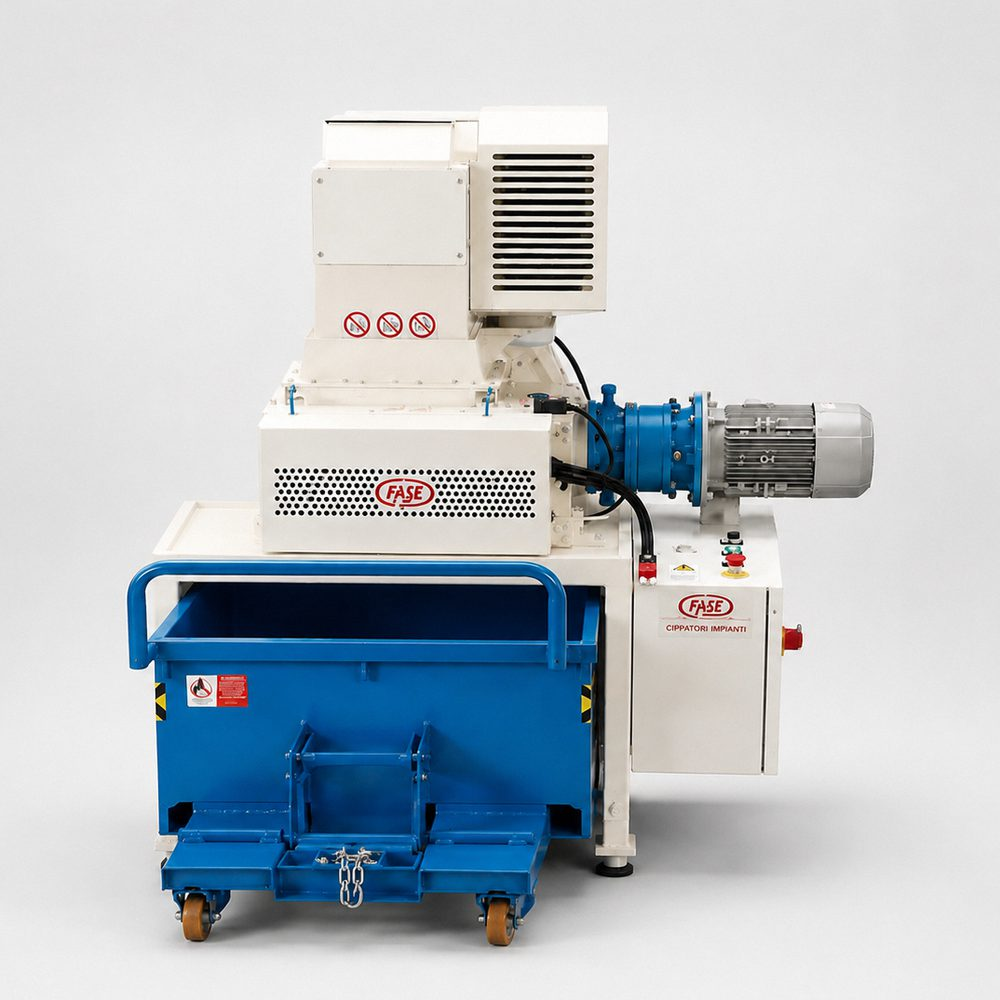
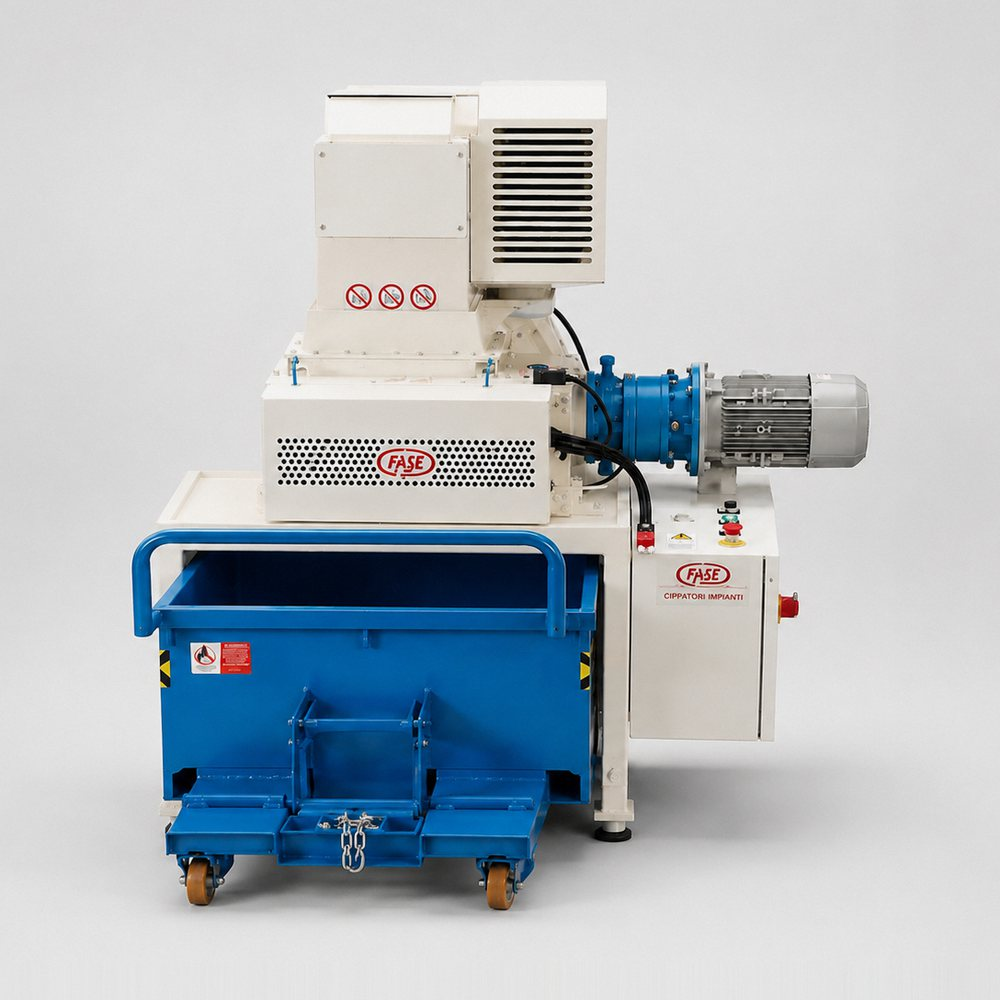
La copertina del KOMBI rientra nella famiglia, otto impianti nella fascia
Nell'elenco "Le macchine" le copertine sono scatti di catalogo: fondo chiaro
uniforme, macchina centrata, aria su tutti e quattro i lati. Quella del KOMBI
usciva dalla regola — la macchina toccava i due lati — e accanto alle altre
due schede degli impianti si vedeva. Ora viene dallo stesso scatto in posa di
kombi-01, con la macchina dentro all'84% del quadrato, il fondo portato al
livello delle altre e niente vignettatura. Con lo stesso conto e' rifatta
tr1-copertina, l'altra copertina servita da qui.

Le altre cinque arrivano dal repo dei contenuti e stanno gia' dentro la
regola: non le ho toccate, perche' rifarle vorrebbe dire scegliere un'altra
macchina a rappresentare la serie, che e' una decisione di contenuto.
La scheda LM 660 AG resta col fondo nero: nessuna foto verificata.

Nella fascia della pagina impianti le otto fotografie indicate dal
committente, con continuo-01 in apertura: sei del ciclo continuo — tre gia'
lavorate, tre nuove dalla stessa cartella — e due del KOMBI. Il paniere
estraibile in questa fascia non compare piu': le sue fotografie restano sulla
scheda della serie.

Changed region(s): [[0.124, 0.093, 0.899, 0.961], [0.341, 0.279, 0.434, 0.341], [0.341, 0.217, 0.372, 0.248]]

diff --git a/impianti.html b/impianti.html
@@ -6,7 +6,7 @@
 <meta name="format-detection" content="telephone=no,address=no,email=no,date=no">
 <title>Impianti | Fase Mechanical Engineering</title>
 <meta name="description" content="Linee complete che collegano macchina utensile, trattamento dello sfrido e stoccaggio, dimensionate sul reparto.">
-<link rel="stylesheet" href="assets/site.css?v=20260827e">
+<link rel="stylesheet" href="assets/site.css?v=20260827f">
 </head>
 <body>
 <nav class="menu">
@@ -59,15 +59,16 @@
 </header><section class="media-band">
   <!-- Carosello: una riga per fotografia, la prima porta anche "attiva"
        perche' resti visibile se lo script non parte. Per cambiare le
-       immagini basta agire su queste righe. Le tre famiglie alternate: ciclo continuo, KOMBI, paniere estraibile. -->
+       immagini basta agire su queste righe. -->
   <div class="reveal carosello" data-carosello="2000">
     <img class="attiva" alt="impianto Fase a ciclo continuo: tramoggia di carico, elevatore verso la centrifuga, cassone di raccolta e cisterna del lubrorefrigerante" src="assets/img/impianti/continuo-01.jpg">
-    <img loading="lazy" alt="impianto Fase KOMBI completo: tramoggia di carico, elevatore a tapparelle, centrifuga e quadro elettrico" src="assets/img/kombi/kombi-01.jpg">
-    <img loading="lazy" alt="impianto Fase a paniere estraibile: portale con pinza sopra le stazioni di centrifugazione, dietro la recinzione di protezione" src="assets/img/impianti/paniere-01.jpg">
+    <img loading="lazy" alt="impianto a ciclo continuo in reparto, dentro la recinzione di protezione, con trituratore e centrifuga in linea" src="assets/img/impianti/continuo-05.jpg">
+    <img loading="lazy" alt="impianto a ciclo continuo con centrifuga su cavalletto, cisterna del lubrorefrigerante e centralina idraulica" src="assets/img/impianti/continuo-07.jpg">
     <img loading="lazy" alt="impianto a ciclo continuo con silo di stoccaggio, trituratore, centrifuga e cassoni di raccolta su ruote" src="assets/img/impianti/continuo-04.jpg">
-    <img loading="lazy" alt="impianto Fase KOMBI con la tramoggia di accumulo in primo piano e il quadro di comando a fianco" src="assets/img/kombi/kombi-03.jpg">
-    <img loading="lazy" alt="linea a paniere estraibile: portale su rotaia, panieri in acciaio inox, bacini di contenimento e ribalta cassoni" src="assets/img/impianti/paniere-02.jpg">
-    <img loading="lazy" alt="linea a ciclo continuo con silo, trituratore, centrifuga e vasca di recupero del lubrorefrigerante" src="assets/img/impianti/continuo-06.jpg">
+    <img loading="lazy" alt="impianto a ciclo continuo in reparto: quadro di comando, tramoggia con spintore idraulico e centrifuga dietro la recinzione" src="assets/img/impianti/continuo-08.jpg">
+    <img loading="lazy" alt="impianto a ciclo continuo con nastro di carico, centrifuga e compressore dentro la recinzione di protezione" src="assets/img/impianti/continuo-09.jpg">
+    <img loading="lazy" alt="gruppo di scarico di un impianto Fase KOMBI, con il fusto della centrifuga in vista" src="assets/img/kombi/kombi-06.jpg">
+    <img loading="lazy" alt="impianto Fase KOMBI completo: tramoggia di carico, elevatore a tapparelle, centrifuga e quadro elettrico" src="assets/img/kombi/kombi-01.jpg">
   </div>
 </section>
 <section class="expertises-overview">
@@ -94,7 +95,7 @@
         <div class="dots-icon-button arrow-link"><svg viewBox="0 0 12 12" fill="none" xmlns="http://www.w3.org/2000/svg"><circle cx="9.89859" cy="1.41437" r="1" fill="currentColor"/><circle cx="5.6564" cy="1.41437" r="1" fill="currentColor"/><circle cx="1.41422" cy="1.41437" r="1" fill="currentColor"/><circle cx="7.7775" cy="3.53546" r="1" fill="currentColor"/><circle cx="5.6564" cy="5.65655" r="1" fill="currentColor"/><circle cx="9.89859" cy="5.65655" r="1" fill="currentColor"/><circle cx="9.89859" cy="9.89874" r="1" fill="currentColor"/><circle cx="3.53531" cy="7.77765" r="1" fill="currentColor"/><circle cx="1.41422" cy="9.89874" r="1" fill="currentColor"/></svg></div>
       </a>
       <a href="prodotti/kombi.html" class="expertise-card">
-        <div class="image-wrapper"><img loading="lazy" alt="impianto Fase KOMBI su base pallettizzata, con elevatore a tapparelle, centrifuga e quadro elettrico" src="assets/img/kombi/kombi-scheda.jpg"></div>
+        <div class="image-wrapper"><img loading="lazy" alt="impianto Fase KOMBI su base pallettizzata, con elevatore a tapparelle, centrifuga e quadro elettrico" src="assets/img/kombi/kombi-copertina.jpg"></div>
         <div class="content">
           <div class="name">Impianto compatto di disoleatura<span>Serie KOMBI</span></div>
           <div class="copy">Fino a 400 kg/h su base pallettizzata</div>
@@ -147,7 +148,7 @@
     </div>
   </div>
 </footer>
-<script src="assets/i18n.js?v=20260827e"></script>
-<script src="assets/site.js?v=20260827e"></script>
+<script src="assets/i18n.js?v=20260827f"></script>
+<script src="assets/site.js?v=20260827f"></script>
 </body>
 </html>

diff --git a/prodotti/impianti-trattamento-trucioli-ciclo-continuo.html b/prodotti/impianti-trattamento-trucioli-ciclo-continuo.html
@@ -6,7 +6,7 @@
 <meta name="format-detection" content="telephone=no,address=no,email=no,date=no">
 <title>Impianti di trattamento trucioli metallici a ciclo continuo | Fase Mechanical Engineering</title>
 <meta name="description" content="Alimentazione continua, dati secondo Industria 4.0">
-<link rel="stylesheet" href="../assets/site.css?v=20260827e">
+<link rel="stylesheet" href="../assets/site.css?v=20260827f">
 </head>
 <body>
 <nav class="menu">
@@ -100,7 +100,7 @@
         <div class="dots-icon-button arrow-link"><svg viewBox="0 0 12 12" fill="none" xmlns="http://www.w3.org/2000/svg"><circle cx="9.89859" cy="1.41437" r="1" fill="currentColor"/><circle cx="5.6564" cy="1.41437" r="1" fill="currentColor"/><circle cx="1.41422" cy="1.41437" r="1" fill="currentColor"/><circle cx="7.7775" cy="3.53546" r="1" fill="currentColor"/><circle cx="5.6564" cy="5.65655" r="1" fill="currentColor"/><circle cx="9.89859" cy="5.65655" r="1" fill="currentColor"/><circle cx="9.89859" cy="9.89874" r="1" fill="currentColor"/><circle cx="3.53531" cy="7.77765" r="1" fill="currentColor"/><circle cx="1.41422" cy="9.89874" r="1" fill="currentColor"/></svg></div>
       </a>
       <a href="kombi.html" class="expertise-card">
-        <div class="image-wrapper"><img loading="lazy" alt="impianto Fase KOMBI su base pallettizzata, con elevatore a tapparelle, centrifuga e quadro elettrico" src="../assets/img/kombi/kombi-scheda.jpg"></div>
+        <div class="image-wrapper"><img loading="lazy" alt="impianto Fase KOMBI su base pallettizzata, con elevatore a tapparelle, centrifuga e quadro elettrico" src="../assets/img/kombi/kombi-copertina.jpg"></div>
         <div class="content">
           <div class="name">Impianto compatto di disoleatura<span>Serie KOMBI</span></div>
           <div class="copy">Fino a 400 kg/h su base pallettizzata</div>
@@ -153,7 +153,7 @@
     </div>
   </div>
 </footer>
-<script src="../assets/i18n.js?v=20260827e"></script>
-<script src="../assets/site.js?v=20260827e"></script>
+<script src="../assets/i18n.js?v=20260827f"></script>
+<script src="../assets/site.js?v=20260827f"></script>
 </body>
 </html>

diff --git a/prodotti/impianti-trattamento-trucioli-paniere-estraibile.html b/prodotti/impianti-trattamento-trucioli-paniere-estraibile.html
@@ -6,7 +6,7 @@
 <meta name="format-detection" content="telephone=no,address=no,email=no,date=no">
 <title>Impianti di trattamento trucioli metallici a paniere estraibile | Fase Mechanical Engineering</title>
 <meta name="description" content="Più materiali trattati senza contaminazione">
-<link rel="stylesheet" href="../assets/site.css?v=20260827e">
+<link rel="stylesheet" href="../assets/site.css?v=20260827f">
 </head>
 <body>
 <nav class="menu">
@@ -98,7 +98,7 @@
         <div class="dots-icon-button arrow-link"><svg viewBox="0 0 12 12" fill="none" xmlns="http://www.w3.org/2000/svg"><circle cx="9.89859" cy="1.41437" r="1" fill="currentColor"/><circle cx="5.6564" cy="1.41437" r="1" fill="currentColor"/><circle cx="1.41422" cy="1.41437" r="1" fill="currentColor"/><circle cx="7.7775" cy="3.53546" r="1" fill="currentColor"/><circle cx="5.6564" cy="5.65655" r="1" fill="currentColor"/><circle cx="9.89859" cy="5.65655" r="1" fill="currentColor"/><circle cx="9.89859" cy="9.89874" r="1" fill="currentColor"/><circle cx="3.53531" cy="7.77765" r="1" fill="currentColor"/><circle cx="1.41422" cy="9.89874" r="1" fill="currentColor"/></svg></div>
       </a>
       <a href="kombi.html" class="expertise-card">
-        <div class="image-wrapper"><img loading="lazy" alt="impianto Fase KOMBI su base pallettizzata, con elevatore a tapparelle, centrifuga e quadro elettrico" src="../assets/img/kombi/kombi-scheda.jpg"></div>
+        <div class="image-wrapper"><img loading="lazy" alt="impianto Fase KOMBI su base pallettizzata, con elevatore a tapparelle, centrifuga e quadro elettrico" src="../assets/img/kombi/kombi-copertina.jpg"></div>
         <div class="content">
           <div class="name">Impianto compatto di disoleatura<span>Serie KOMBI</span></div>
           <div class="copy">Fino a 400 kg/h su base pallettizzata</div>
@@ -151,7 +151,7 @@
     </div>
   </div>
 </footer>
-<script src="../assets/i18n.js?v=20260827e"></script>
-<script src="../assets/site.js?v=20260827e"></script>
+<script src="../assets/i18n.js?v=20260827f"></script>
+<script src="../assets/site.js?v=20260827f"></script>
 </body>
 </html>

diff --git a/assets/i18n.js b/assets/i18n.js
@@ -535,6 +535,9 @@ var EN = {
 "impianto a ciclo continuo con silo di stoccaggio, trituratore, centrifuga e cassoni di raccolta su ruote":"continuous-cycle system with storage silo, shredder, centrifuge and wheeled collection bins",
 "impianto a ciclo continuo in reparto, dentro la recinzione di protezione, con trituratore e centrifuga in linea":"continuous-cycle system on the shop floor, inside the safety fence, with shredder and centrifuge in line",
 "linea a ciclo continuo con silo, trituratore, centrifuga e vasca di recupero del lubrorefrigerante":"continuous-cycle line with silo, shredder, centrifuge and coolant recovery tank",
+"impianto a ciclo continuo con centrifuga su cavalletto, cisterna del lubrorefrigerante e centralina idraulica":"continuous-cycle system with the centrifuge on a stand, coolant tank and hydraulic power pack",
+"impianto a ciclo continuo in reparto: quadro di comando, tramoggia con spintore idraulico e centrifuga dietro la recinzione":"continuous-cycle system on the shop floor: control panel, hopper with hydraulic ram and centrifuge behind the fence",
+"impianto a ciclo continuo con nastro di carico, centrifuga e compressore dentro la recinzione di protezione":"continuous-cycle system with loading conveyor, centrifuge and compressor inside the safety fence",
 "linea a paniere estraibile: portale su rotaia, panieri in acciaio inox, bacini di contenimento e ribalta cassoni":"removable-basket line: rail-mounted gantry, stainless steel baskets, containment tubs and bin tipper",
 "portale di manipolazione di un impianto a paniere estraibile, con i cilindri della pinza":"handling gantry of a removable-basket system, with the gripper cylinders",
 "pinza del portale che afferra il paniere, vista da sotto":"the gantry gripper closing on the basket, seen from below",

diff --git a/news/test-gratuiti-di-triturazione.html b/news/test-gratuiti-di-triturazione.html
@@ -6,7 +6,7 @@
 <meta name="format-detection" content="telephone=no,address=no,email=no,date=no">
 <title>Test gratuiti di triturazione | Fase Mechanical Engineering</title>
 <meta name="description" content="I trituratori frantumano il truciolo e semplificano centrifugazione e stoccaggio. Mettiamo a disposizione una prova gratuita sullo sfrido del cliente, su appuntamento.">
-<link rel="stylesheet" href="../assets/site.css?v=20260827e">
+<link rel="stylesheet" href="../assets/site.css?v=20260827f">
 </head>
 <body>
 <nav class="menu">
@@ -142,7 +142,7 @@
     </div>
   </div>
 </footer>
-<script src="../assets/i18n.js?v=20260827e"></script>
-<script src="../assets/site.js?v=20260827e"></script>
+<script src="../assets/i18n.js?v=20260827f"></script>
+<script src="../assets/site.js?v=20260827f"></script>
 </body>
 </html>

diff --git a/prodotti/kombi.html b/prodotti/kombi.html
@@ -6,7 +6,7 @@
 <meta name="format-detection" content="telephone=no,address=no,email=no,date=no">
 <title>Impianto compatto di disoleatura serie KOMBI | Fase Mechanical Engineering</title>
 <meta name="description" content="Impianto automatico di disoleatura del truciolo corto, su base pallettizzata. Fino a 400 kg/h, trituratore e vasca dragante a richiesta.">
-<link rel="stylesheet" href="../assets/site.css?v=20260827e">
+<link rel="stylesheet" href="../assets/site.css?v=20260827f">
 </head>
 <body>
 <nav class="menu">
@@ -169,7 +169,7 @@
     </div>
   </div>
 </footer>
-<script src="../assets/i18n.js?v=20260827e"></script>
-<script src="../assets/site.js?v=20260827e"></script>
+<script src="../assets/i18n.js?v=20260827f"></script>
+<script src="../assets/site.js?v=20260827f"></script>
 </body>
 </html>

diff --git a/index.html b/index.html
@@ -6,7 +6,7 @@
 <meta name="format-detection" content="telephone=no,address=no,email=no,date=no">
 <title>Fase Mechanical Engineering | Centrifughe, impianti e trituratori per lo sfrido metallico</title>
 <meta name="description" content="Fase progetta e costruisce centrifughe, impianti di trattamento e trituratori per lo sfrido metallico. Umidità residua sotto il 2%.">
-<link rel="stylesheet" href="assets/site.css?v=20260827e">
+<link rel="stylesheet" href="assets/site.css?v=20260827f">
 </head>
 <body>
 <nav class="menu">
@@ -334,7 +334,7 @@
     </div>
   </div>
 </footer>
-<script src="assets/i18n.js?v=20260827e"></script>
-<script src="assets/site.js?v=20260827e"></script>
+<script src="assets/i18n.js?v=20260827f"></script>
+<script src="assets/site.js?v=20260827f"></script>
 </body>
 </html>

diff --git a/applicazioni.html b/applicazioni.html
@@ -6,7 +6,7 @@
 <meta name="format-detection" content="telephone=no,address=no,email=no,date=no">
 <title>Applicazioni | Fase Mechanical Engineering</title>
 <meta name="description" content="Il truciolo esce dalla macchina utensile carico di lubrorefrigerante, e quanto ne trattiene dipende dalla forma. L’impianto si sceglie dal materiale, non dal listino.">
-<link rel="stylesheet" href="assets/site.css?v=20260827e">
+<link rel="stylesheet" href="assets/site.css?v=20260827f">
 </head>
 <body>
 <nav class="menu">
@@ -136,7 +136,7 @@
     </div>
   </div>
 </footer>
-<script src="assets/i18n.js?v=20260827e"></script>
-<script src="assets/site.js?v=20260827e"></script>
+<script src="assets/i18n.js?v=20260827f"></script>
+<script src="assets/site.js?v=20260827f"></script>
 </body>
 </html>

diff --git a/settori.html b/settori.html
@@ -6,7 +6,7 @@
 <meta name="format-detection" content="telephone=no,address=no,email=no,date=no">
 <title>Settori | Fase Mechanical Engineering</title>
 <meta name="description" content="Cambia il pezzo, cambia il fluido, cambia lo spazio. Non cambia dove interveniamo: a valle della lavorazione, prima che lo sfrido diventi un costo.">
-<link rel="stylesheet" href="assets/site.css?v=20260827e">
+<link rel="stylesheet" href="assets/site.css?v=20260827f">
 </head>
 <body>
 <nav class="menu">
@@ -122,7 +122,7 @@
     </div>
   </div>
 </footer>
-<script src="assets/i18n.js?v=20260827e"></script>
-<script src="assets/site.js?v=20260827e"></script>
+<script src="assets/i18n.js?v=20260827f"></script>
+<script src="assets/site.js?v=20260827f"></script>
 </body>
 </html>

diff --git a/news/fornitore-offresi-2025.html b/news/fornitore-offresi-2025.html
@@ -6,7 +6,7 @@
 <meta name="format-detection" content="telephone=no,address=no,email=no,date=no">
 <title>Fornitore Offresi 2025 | Fase Mechanical Engineering</title>
 <meta name="description" content="Salone internazionale della subfornitura meccanica, a Erba dal 13 al 15 febbraio. Padiglione B, stand 281.">
-<link rel="stylesheet" href="../assets/site.css?v=20260827e">
+<link rel="stylesheet" href="../assets/site.css?v=20260827f">
 </head>
 <body>
 <nav class="menu">
@@ -142,7 +142,7 @@
     </div>
   </div>
 </footer>
-<script src="../assets/i18n.js?v=20260827e"></script>
-<script src="../assets/site.js?v=20260827e"></script>
+<script src="../assets/i18n.js?v=20260827f"></script>
+<script src="../assets/site.js?v=20260827f"></script>
 </body>
 </html>

diff --git a/news/mecspe-2026.html b/news/mecspe-2026.html
@@ -6,7 +6,7 @@
 <meta name="format-detection" content="telephone=no,address=no,email=no,date=no">
 <title>MECSPE 2026 | Fase Mechanical Engineering</title>
 <meta name="description" content="Saremo a MECSPE, la fiera dedicata alle innovazioni per l’industria manifatturiera. Padiglione 14, stand F32.">
-<link rel="stylesheet" href="../assets/site.css?v=20260827e">
+<link rel="stylesheet" href="../assets/site.css?v=20260827f">
 </head>
 <body>
 <nav class="menu">
@@ -142,7 +142,7 @@
     </div>
   </div>
 </footer>
-<script src="../assets/i18n.js?v=20260827e"></script>
-<script src="../assets/site.js?v=20260827e"></script>
+<script src="../assets/i18n.js?v=20260827f"></script>
+<script src="../assets/site.js?v=20260827f"></script>
 </body>
 </html>

diff --git a/news/mecspe-2021.html b/news/mecspe-2021.html
@@ -6,7 +6,7 @@
 <meta name="format-detection" content="telephone=no,address=no,email=no,date=no">
 <title>MECSPE 2021 | Fase Mechanical Engineering</title>
 <meta name="description" content="Presenti con i sistemi di centrifugazione e triturazione del truciolo metallico. Padiglione 22, stand C86.">
-<link rel="stylesheet" href="../assets/site.css?v=20260827e">
+<link rel="stylesheet" href="../assets/site.css?v=20260827f">
 </head>
 <body>
 <nav class="menu">
@@ -142,7 +142,7 @@
     </div>
   </div>
 </footer>
-<script src="../assets/i18n.js?v=20260827e"></script>
-<script src="../assets/site.js?v=20260827e"></script>
+<script src="../assets/i18n.js?v=20260827f"></script>
+<script src="../assets/site.js?v=20260827f"></script>
 </body>
 </html>
